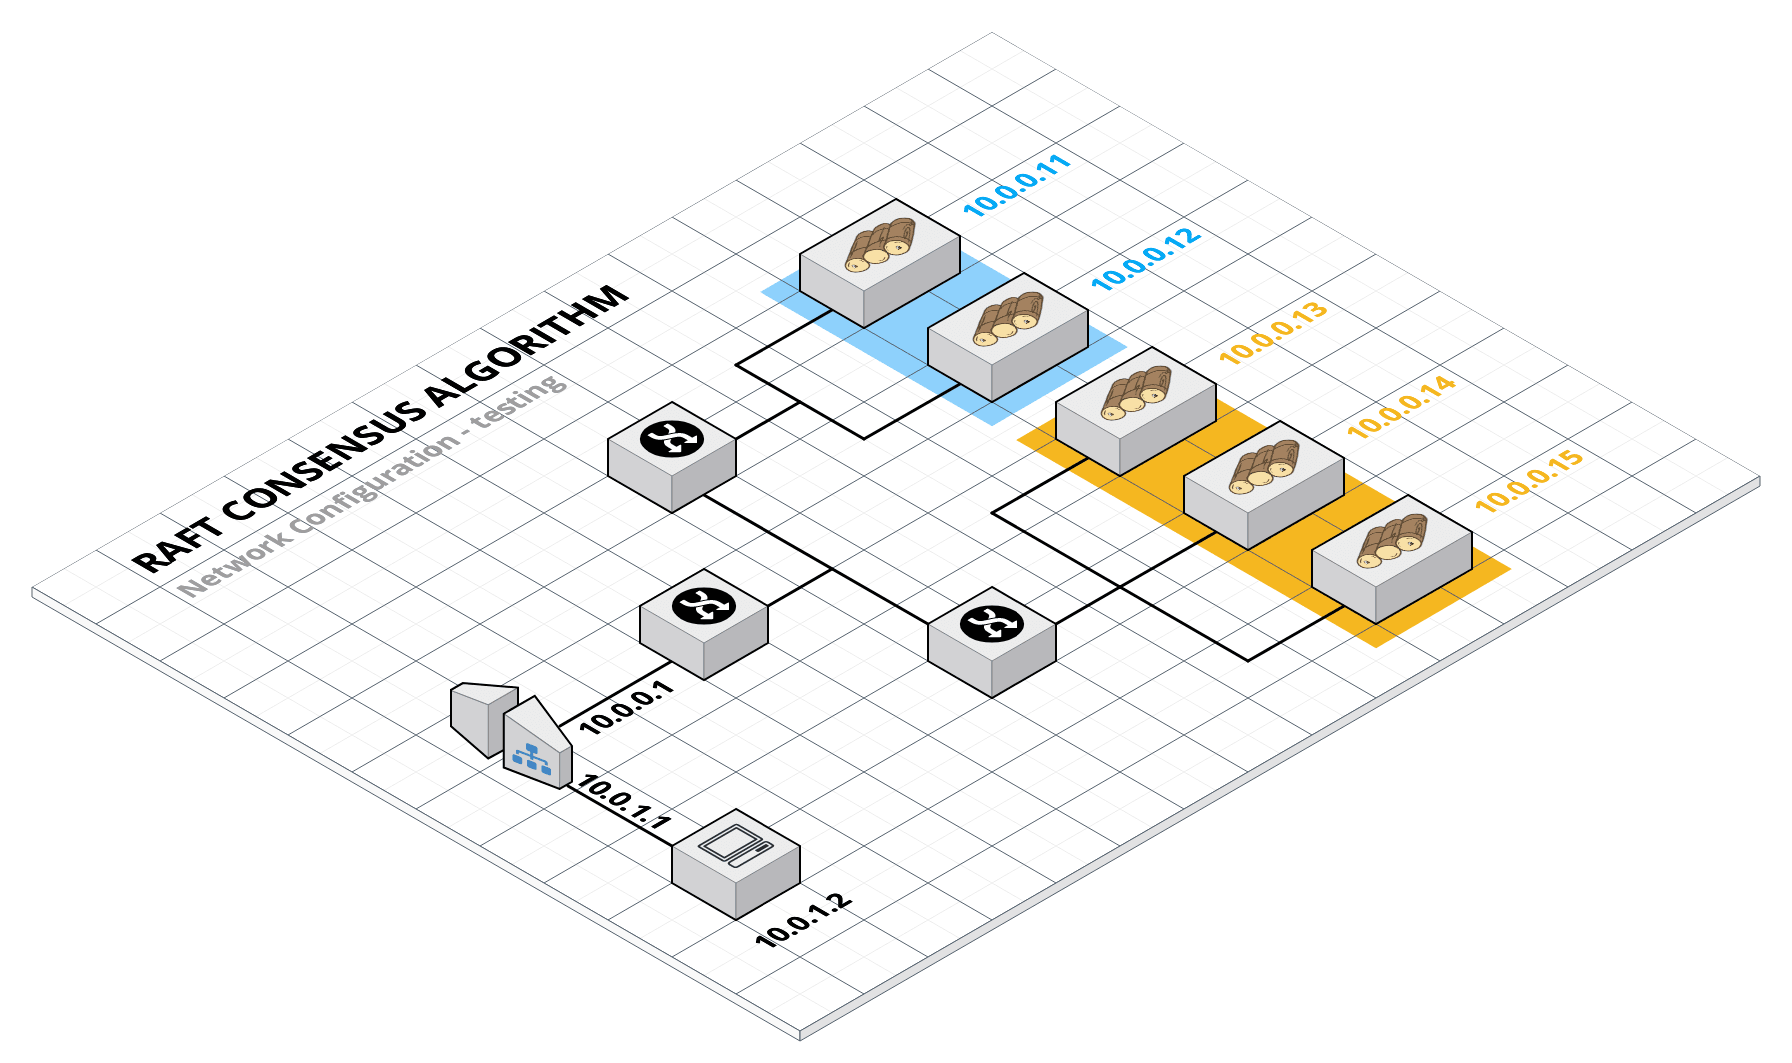
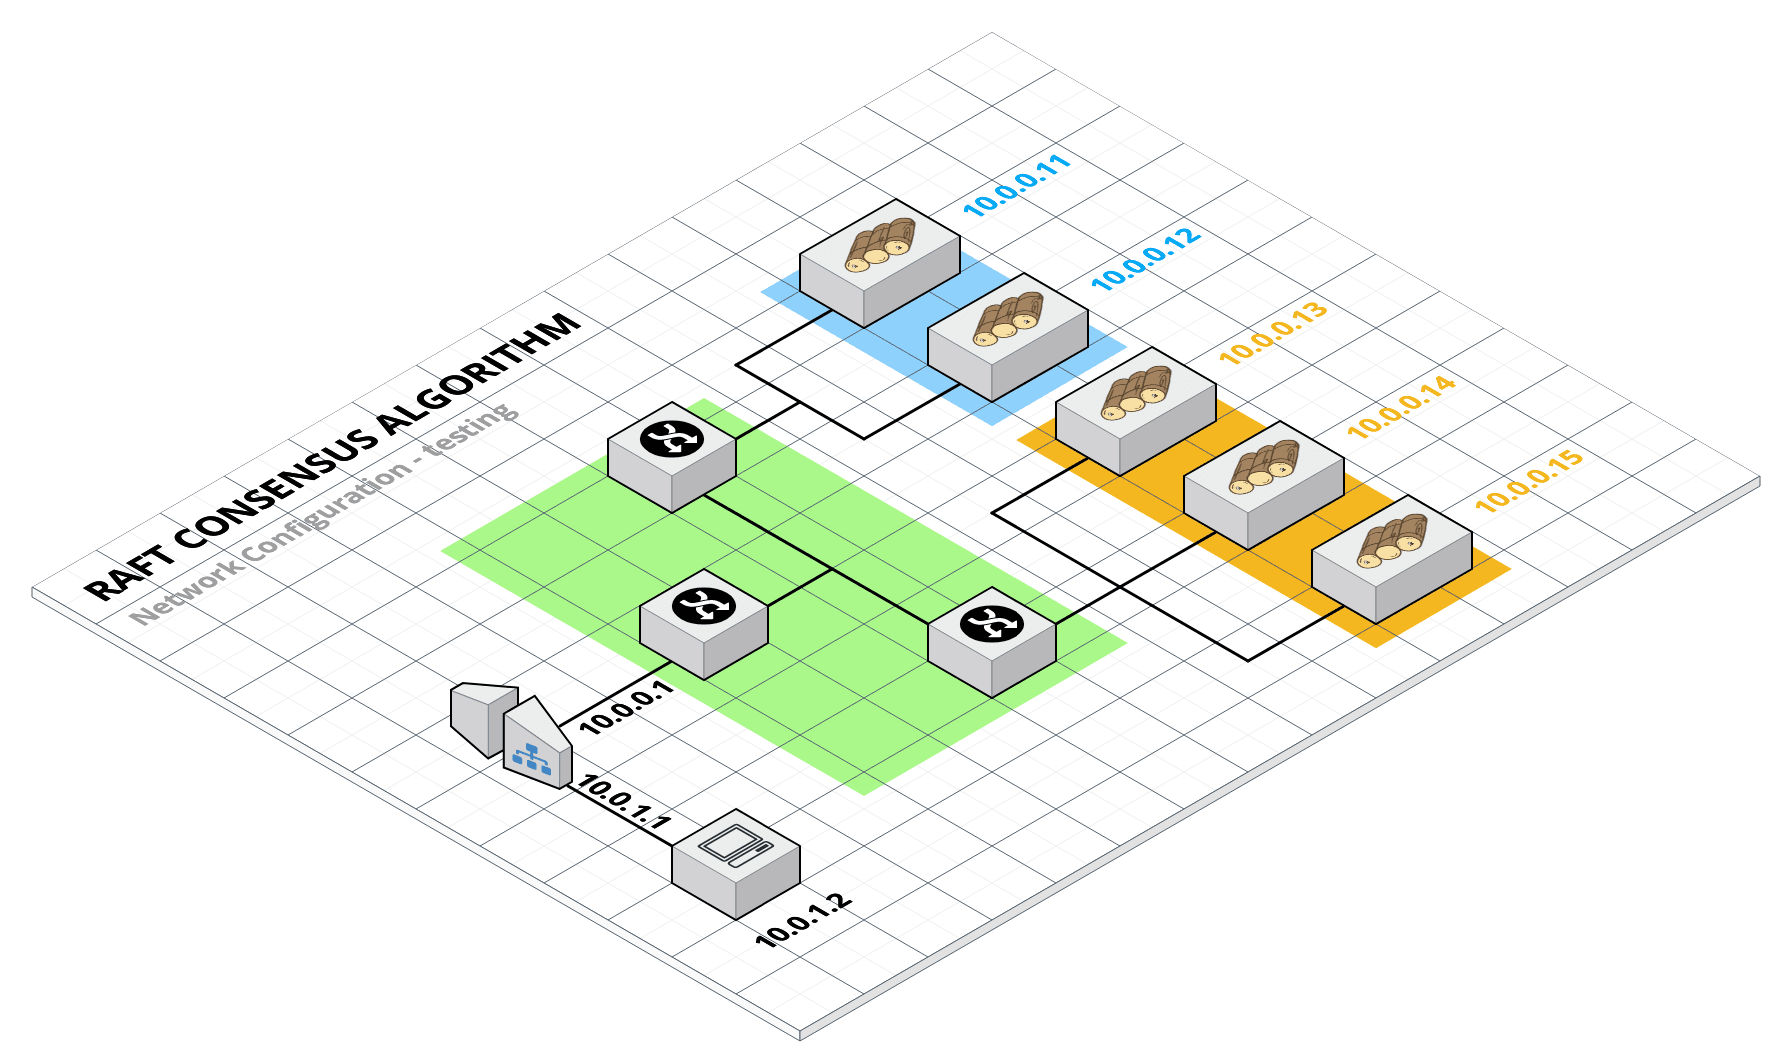
Network partitioning intro 🔪

Changed region(s): [[0.25, 0.3725, 0.625, 0.7451], [0.0312, 0.2794, 0.3438, 0.5898]]

diff --git a/README.md b/README.md
@@ -142,7 +142,7 @@ Java **implementation**:
 - [ ] Server
   - [ ] State Machine
 - [ ] Thread Management
-- [ ] Failed Leader w/ pending messages
+- [ ] ACKs - failed Leader w/ pending messages
 
 **Testbed** environment:
 
@@ -184,7 +184,7 @@ To be discussed.
 
 ### ACK Handling 🤝
 
-TO be discussed if the Leader fails and has still to receive messages.
+To be discussed if the Leader fails and has still to receive messages.
 
 <p align="right">(<a href="#top">back to top</a>)</p>
 
@@ -239,7 +239,7 @@ The following table binds each VM with the respective IP and subnet:
 |--------|------------|
 | Client | `10.0.1.2` |
 | Router | `10.0.1.1`, `10.0.0.1`   |
-| Switch | -  |
+| Switches | -  |
 | Node 1 | `10.0.0.11`  |
 | Node 2 | `10.0.0.12`  |
 | Node 3 | `10.0.0.13`  |
@@ -248,9 +248,15 @@ The following table binds each VM with the respective IP and subnet:
 
 Each `node` machine is identical to the other (every one of them is configured by the same bash script, `vagrant/raft-node.sh`).
 
+<p align="right">(<a href="#top">back to top</a>)</p>
+
 ### Network Partitioning 🔪
 
-Network is divided into 2 portions: one partition can fail wrt the other one. 
+As shown in the above diagram, **network is divided into 2 portions**. This choice was taken in order to allow network partitioning and test the behavior of our Raft algorithm implementation in a particular case: network can fail partially. Moreover, one portion of the network (the orange one) can re-establish consensus, while the remaining part (the blue one) should'n be able to reach *quorum*, since there are only 2 nodes.
+
+The switch layering is managed by the open source tool [**Open vSwitch**](https://www.openvswitch.org/), which allowed us to create 3 virtual bridges, connected together in order to simulate a somehow realistic scenario. The nodes in the green zone of the diagram are virtual switches, and will be used in the *Failure Simulation* (see following section). 
+
+The setup is handled by the `vagrant/switch.sh` script. From that one can really understand what is going on in terms of configuration.
 
 <p align="right">(<a href="#top">back to top</a>)</p>
 
